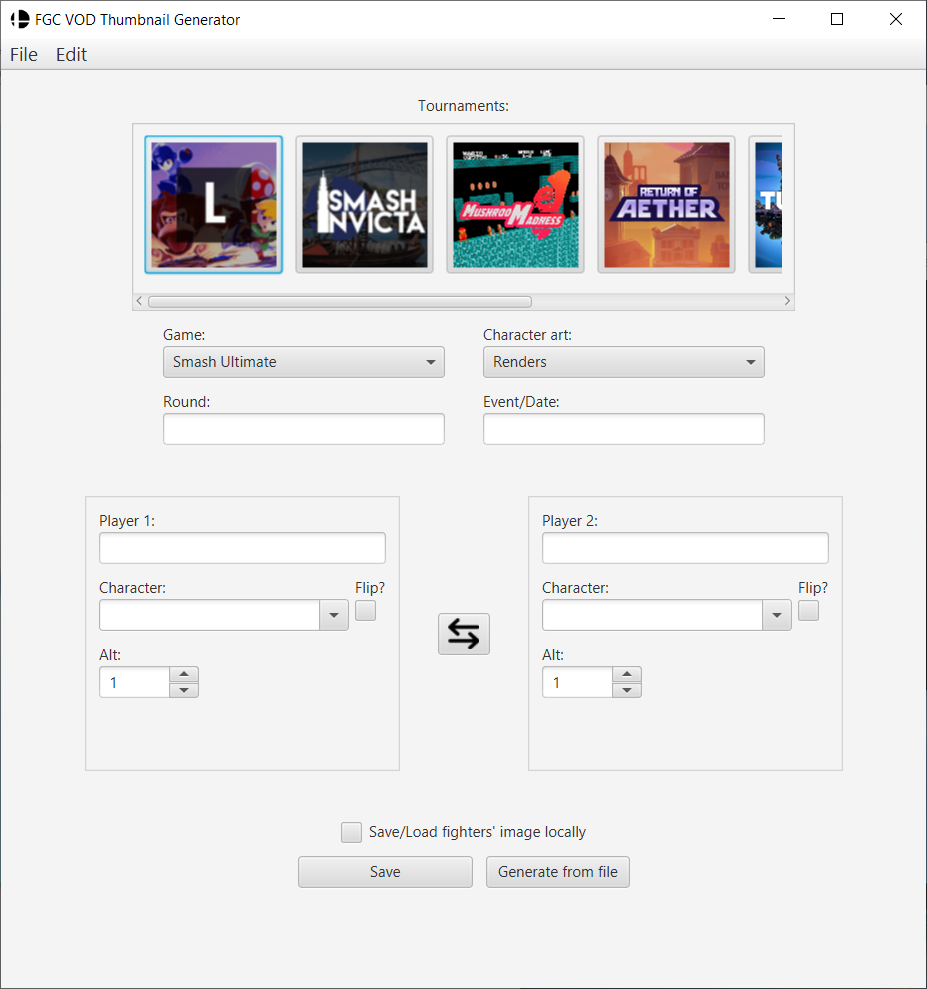
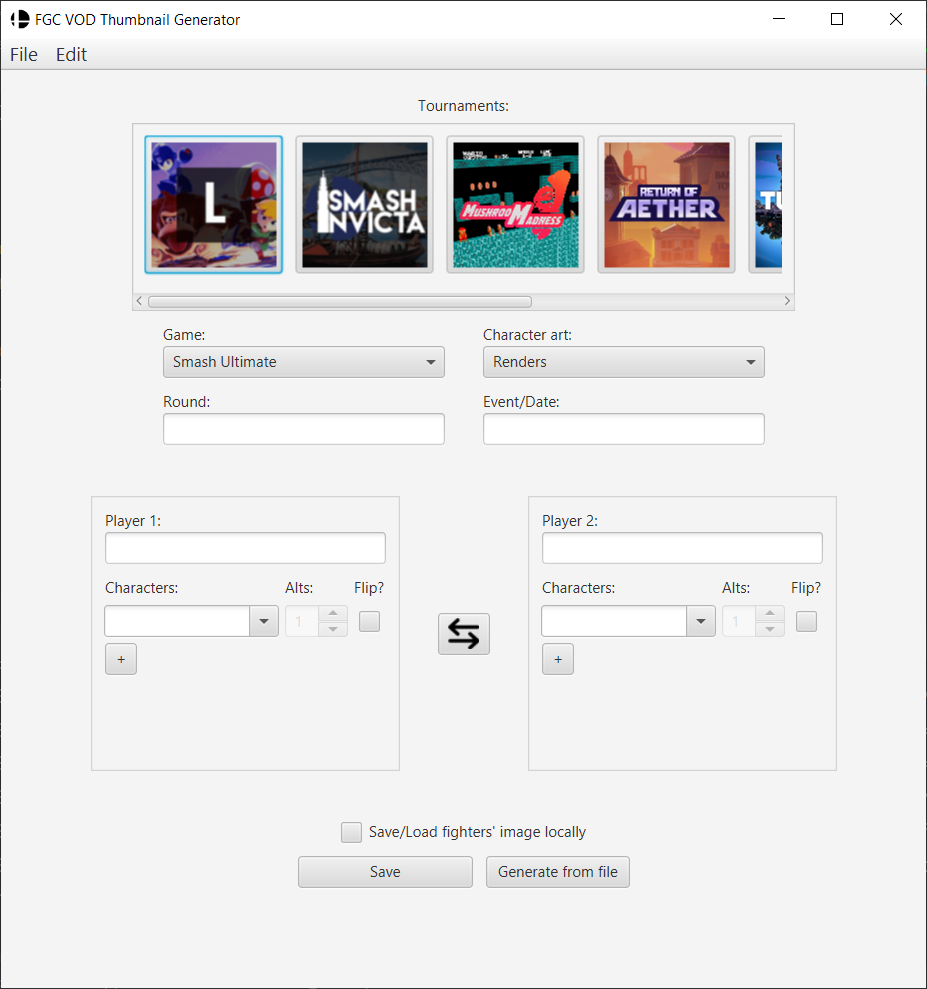
Updated documentation

diff --git a/README.md b/README.md
@@ -4,10 +4,13 @@
 This program was created to automate thumbnail creation for Smash Ultimate VODs. It is also compatible with some other fighting games. 
 This allows TOs to speed up VODs' release process. Below are the compatible games:
 - Smash Ultimate
+- Smash Melee
 - Rivals of Aether 2
 - Street Fighter 6
 - Tekken 8
+- Guilty Gear: Strive
 - Fatal Fury: City of the Wolves
+- Granblue Fantasy Versus: Rising
 
 ![tg_main_page.png](./assets/documentation/tg_main_page.png)
 
@@ -97,10 +100,13 @@ A dialog box will appear to confirm whether this deletion is intentional.
 All character images are downloaded from a [Github repository](https://www.smashbros.com/en_US/fighter/index.html), that I created.
 Images were gathered thanks to:
 - [Smash Ultimate official website](https://www.smashbros.com/en_US/fighter/index.html)
+- [Melee HD Asset Library](https://assets.melee.tv/post/651913361021353984/definitive-melee-hd-texture-pack-for-dolphin-and)
 - [Rivals of Aether 2 Press Kit](https://rivals2.com/presskit)
 - [Street Fighter 6 official website](https://www.streetfighter.com/6)
 - [Tekken Warehouse](https://tekkenwarehouse.com/)
+- [Fighters Collection's Guilty Gear: Strive Gallery](https://www.fightersgeneration.com/games/ggstrive-p2.html)
 - [Fatal Fury: City of the Wolves official website](https://www.snk-corp.co.jp/us/games/fatalfury-cotw/)
+- [GBFVR fan press kit](https://rising.granbluefantasy.jp/en/extras/fankit/)
 - [smash-ultimate-assets](https://github.com/marcrd/smash-ultimate-assets) repository
 - [MuralAltDrive's](https://x.com/MuralAltDrive) Smash Ultimate Mural art [Google Drive](https://drive.google.com/drive/folders/1n4lAP6YB7N-bSSgEDx0OPEI2ykOKSQrM)
 
@@ -108,12 +114,6 @@ As an option, Thumbnail Generator can save those downloaded images to use them f
 Images are stored in the following folder:
 
     assets/characters/[GAME]/[ART_TYPE]/
-
-As of version **2.2.0**, the program is capable to generate thumbnails using characters art
-from Smash Ultimate's "Everyone is here" mural/poster.
-
-[Character art isolation](https://www.deviantart.com/elevenzm/gallery/70115610/mural-isolations-super-smash-bros-ultimate) was done by @ElevenZM and mural arts for alts have been created by
-@MuralAltDrive team which contains a [GoogleDrive repository](https://drive.google.com/drive/folders/1n4lAP6YB7N-bSSgEDx0OPEI2ykOKSQrM) for these images.
 
 ### Thumbnail Image Settings 
 For thumbnails, images need to be scaled and repositioned in other to be printed 
@@ -286,15 +286,22 @@ As of version **4.0.0**, users can generate thumbnails and top8 for other games 
 When selecting a game from the dropdown, character list is updated with characters of respective selected game.
 The available games are the following:
 - Smash Ultimate
+- Smash Melee
 - Rivals of Aether 2
 - Street Fighter 6
 - Tekken 8
+- Guilty Gear: Strive
 - Fatal Fury: City of the Wolves
+- Granblue Fantasy Versus: Rising
 
 It is also mandatory to provide characters and their colours.
 When selecting a character from the dropdown, an icon will appear
 This icon is the respective stock icon of the selected character.
 Its colour also changes when selecting a different alt.
+
+Users can add a second character per player by clicking on "+" button.
+Doing so, makes button change to "-" and makes second character mandatory for thumbnail generation.
+Clicking on "-" removes second character and makes it non mandatory for thumbnail generation.
 
 To have a better look at the selected alt, the icon can be clicked
 to show a fighter image that will appear on the thumbnail (character and alt).
@@ -316,6 +323,21 @@ Thumbnails are saved in **/generated_thumbnails** folder, which is created in th
 
 ![tg_thumbnail_example.png](./assets/documentation/tg_thumbnail_example.png)
 
+When generating thumbnails with more than one character per player, characters will be displayed as show below.
+Main character of each player will be at the bottom of the image, while secondary characters will be at the top.
+
+![tg_thumbnail_double_character_example.png](./assets/documentation/tg_thumbnail_double_character_example.png)
+
+this thumbnail uses mask images to split player's characters. These masks are in the following folder:
+
+    assets\masks\thumbnails\
+
+Said mask images can be change, removed or renamed by users to provide different looks to thumbnail.
+Below is same thumbnail generated without said masks:
+
+![tg_thumbnail_double_character_no_mask_example.png](./assets/documentation/tg_thumbnail_double_character_no_mask_example.png)
+
+
 ### Multiple thumbnail generation by file
 Multiple thumbnails can ge generated at once using a file with a list of commands.
 
@@ -326,7 +348,7 @@ Character images used during batch generation can be saved locally if **Save/Loa
 Below is an example of a file to be used:
 
     invicta;20/02/20XX;SSBU;render
-    UrQte;Arjay;robin;byleth;1;8;Losers
+    UrQte;Arjay;robin,sephiroth;byleth;1,1;8;Losers
     fizbo;Darkout;pikachu;pokemon_trainer;4;5;winners Semis
     Chime;Toaster;rob;marth;2;5;Grand Finals
     
@@ -348,6 +370,9 @@ Each following lines represents a thumbnail and has unique data for that thumbna
  7. **Round** - text that will be placed around bottom left corner of thumbnail. Usually round name. It is not case sensitive.
 
 Flip data is not provided, as it is automated by settings created in respective fighter image settings file
+To add more than one character per player, put first character code name, put a comma after first character name, then add second character name;
+Repeat the same steps for alt number to provide alt data of second character. 
+If no alt data is provided for second character, program will use alt number 1 of second character.
 
 Thumbnails are saved in **/generated_thumbnails** folder
 
@@ -381,14 +406,13 @@ If users close Start GG thumbnail generation window, the program will store prov
     
 Auth token is then loaded from said file when users open Start GG thumbnail generation window again.
 
-
 Additional Notes:
-
  - Users can edit the commands directly on the text area;
  - Start.gg does not provide info on used alts and some tournaments may not even provide used characters (ex.: offline tournaments);
  - Alts are set to the default alt and characters, when missing, are set to random;
  - If no commands are printed, it means that the program could not find a set with a stream assigned;
  - Start.GG generations does **not** work for **Granblue Rising**, as Start.GG does not have character data for said game...
+ - Could not validate how to generate thumbnails for Doubles matches, as I could not find any Doubles Bracket with characters reported.
 
 ## Top 8 generation 
 ### Start Top 8 generation
